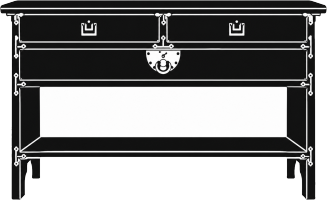
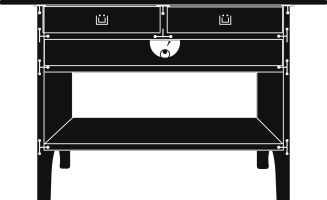
안궤 아이콘을 소장 사진 대조로 다시 그림 — 천판 72.3cm 반영
Claude-Session: https://claude.ai/code/session_01YKtcVwj1RprQv2nqrYYN54

diff --git a/symbols/README.md b/symbols/README.md
@@ -6,3 +6,4 @@
 - eonyang_bandaji_gpt_black.png — 언양반닫이 (검은 바탕, 흰 장석)
 - eonyang_bandaji_gpt_line.png — 언양반닫이 (흰 바탕, 검은 장석·선)
 - angwe_true_ratio.png — 안궤를 실측 비율(가로 72.3 : 높이 44.2)로 맞춘 것. 사이트에 쓰는 mark_angwe.png도 이 비율
+- angwe_photo_true.svg/png — 소장 안궤 사진을 대조해 다시 그린 것. 몸통·서랍·장석 위치는 사진 실측, 천판은 실측 72.3cm(높이 44.2cm 기준)로 사진 밖까지 연장. 현재 사이트의 mark_angwe.png
